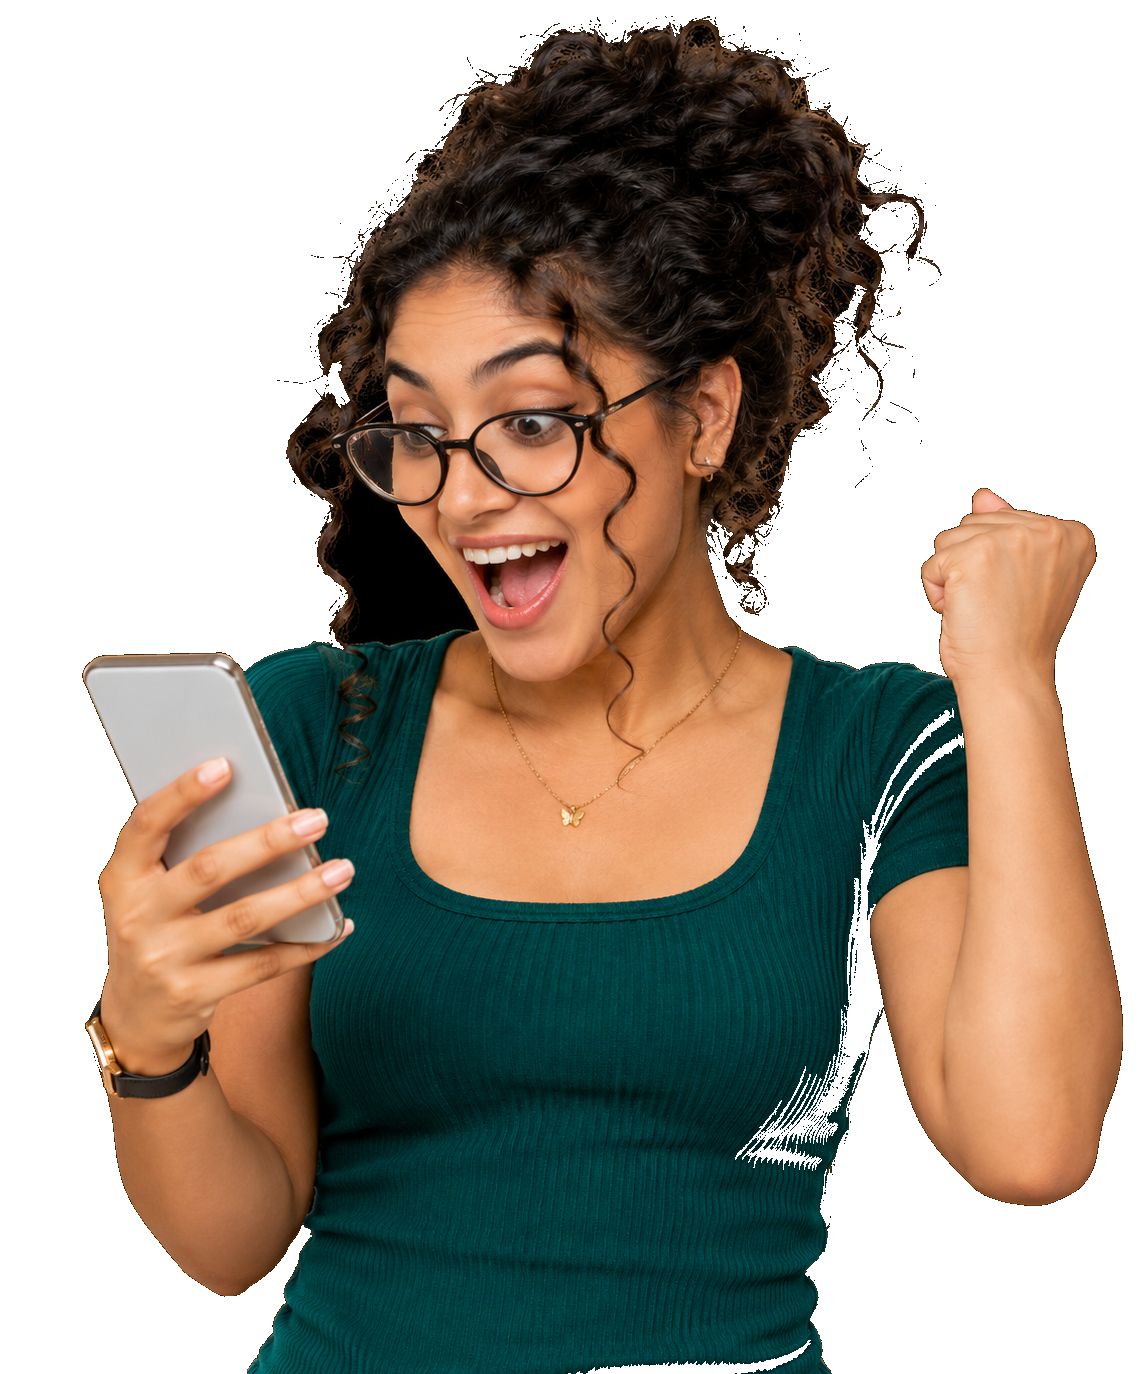
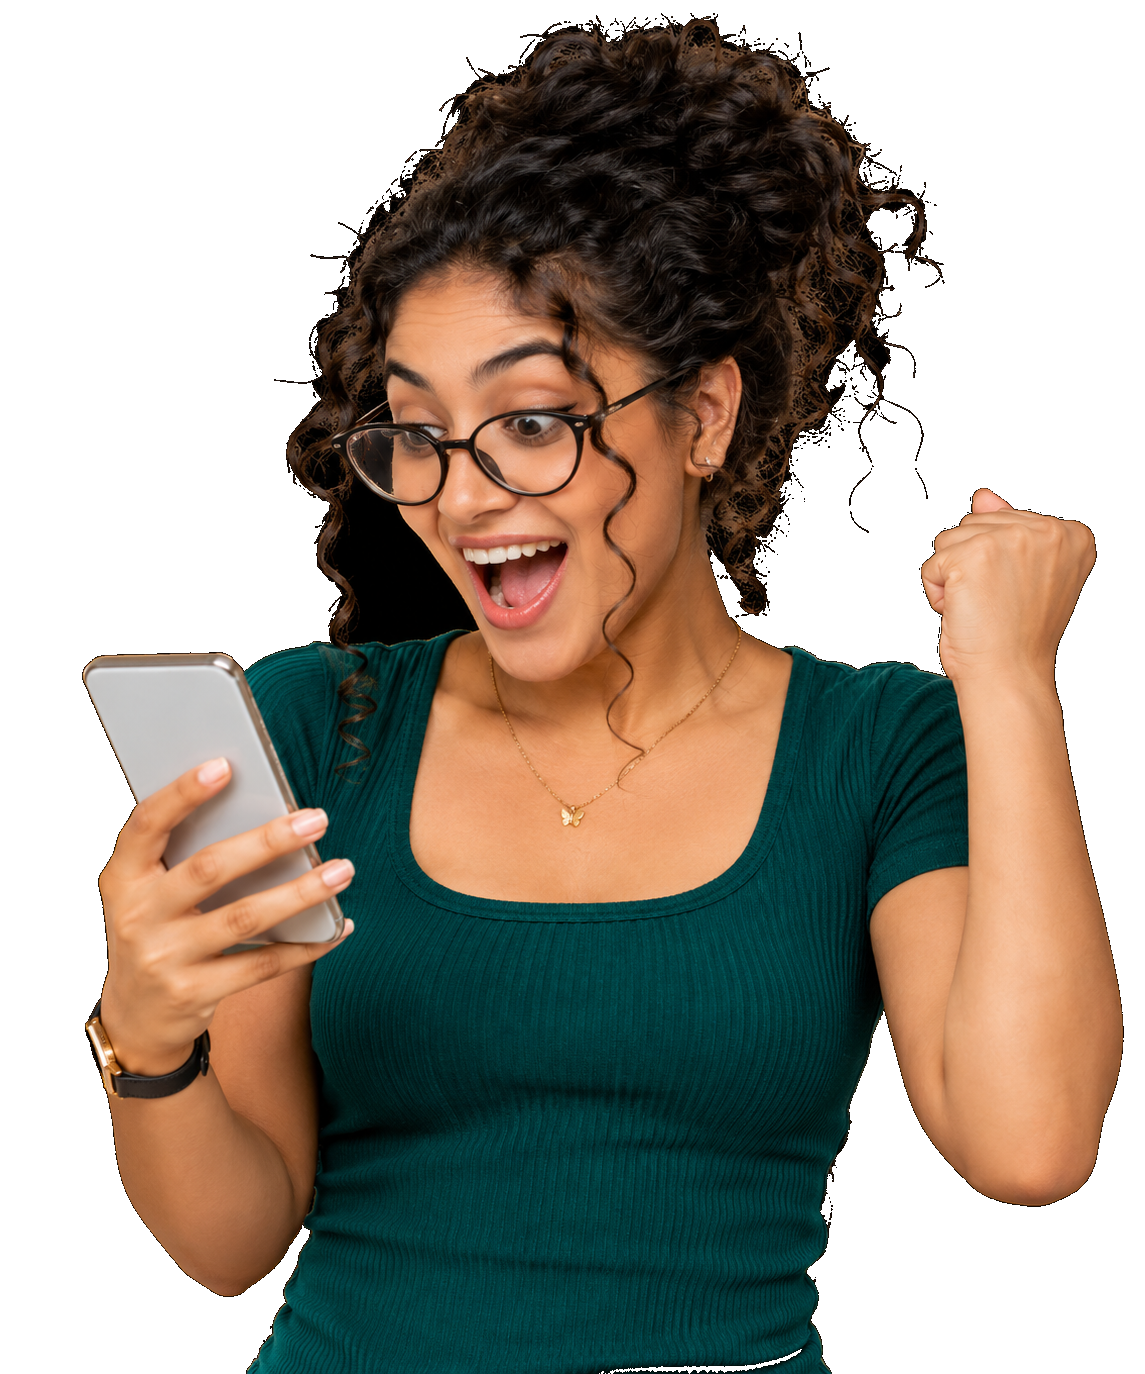
Fix hero transparency and mobile layout

diff --git a/backend/public/site/storage.perfectcdn.com/hmz1fi/knt5b5ikdcj87g78.css b/backend/public/site/storage.perfectcdn.com/hmz1fi/knt5b5ikdcj87g78.css
@@ -7090,6 +7090,40 @@ NEW CSS CODES
     background: var(--bg-card-night);
 }
 
+@media only screen and (max-width: 992px) {
+    #v2-banner .banner_image {
+        display: block;
+        min-height: 360px;
+        margin-top: 10px;
+    }
+
+    #v2-banner .banner_image .main-image {
+        display: block;
+        position: relative;
+        width: min(100%, 420px);
+        max-height: 440px;
+        object-fit: contain;
+        right: auto;
+        bottom: auto;
+        margin: 0 auto;
+    }
+
+    #v2-banner .banner_animations {
+        display: none;
+    }
+}
+
+@media only screen and (max-width: 550px) {
+    #v2-banner .banner_image {
+        min-height: 300px;
+    }
+
+    #v2-banner .banner_image .main-image {
+        width: min(100%, 330px);
+        max-height: 360px;
+    }
+}
+
 /* TechSMM palette: keep dashboard surfaces readable while using lime as the accent. */
 .dashboard .content_area,
 .dashboard .content_area .content {

diff --git a/public/site/storage.perfectcdn.com/hmz1fi/knt5b5ikdcj87g78.css b/public/site/storage.perfectcdn.com/hmz1fi/knt5b5ikdcj87g78.css
@@ -7090,6 +7090,40 @@ NEW CSS CODES
     background: var(--bg-card-night);
 }
 
+@media only screen and (max-width: 992px) {
+    #v2-banner .banner_image {
+        display: block;
+        min-height: 360px;
+        margin-top: 10px;
+    }
+
+    #v2-banner .banner_image .main-image {
+        display: block;
+        position: relative;
+        width: min(100%, 420px);
+        max-height: 440px;
+        object-fit: contain;
+        right: auto;
+        bottom: auto;
+        margin: 0 auto;
+    }
+
+    #v2-banner .banner_animations {
+        display: none;
+    }
+}
+
+@media only screen and (max-width: 550px) {
+    #v2-banner .banner_image {
+        min-height: 300px;
+    }
+
+    #v2-banner .banner_image .main-image {
+        width: min(100%, 330px);
+        max-height: 360px;
+    }
+}
+
 /* TechSMM palette: keep dashboard surfaces readable while using lime as the accent. */
 .dashboard .content_area,
 .dashboard .content_area .content {
